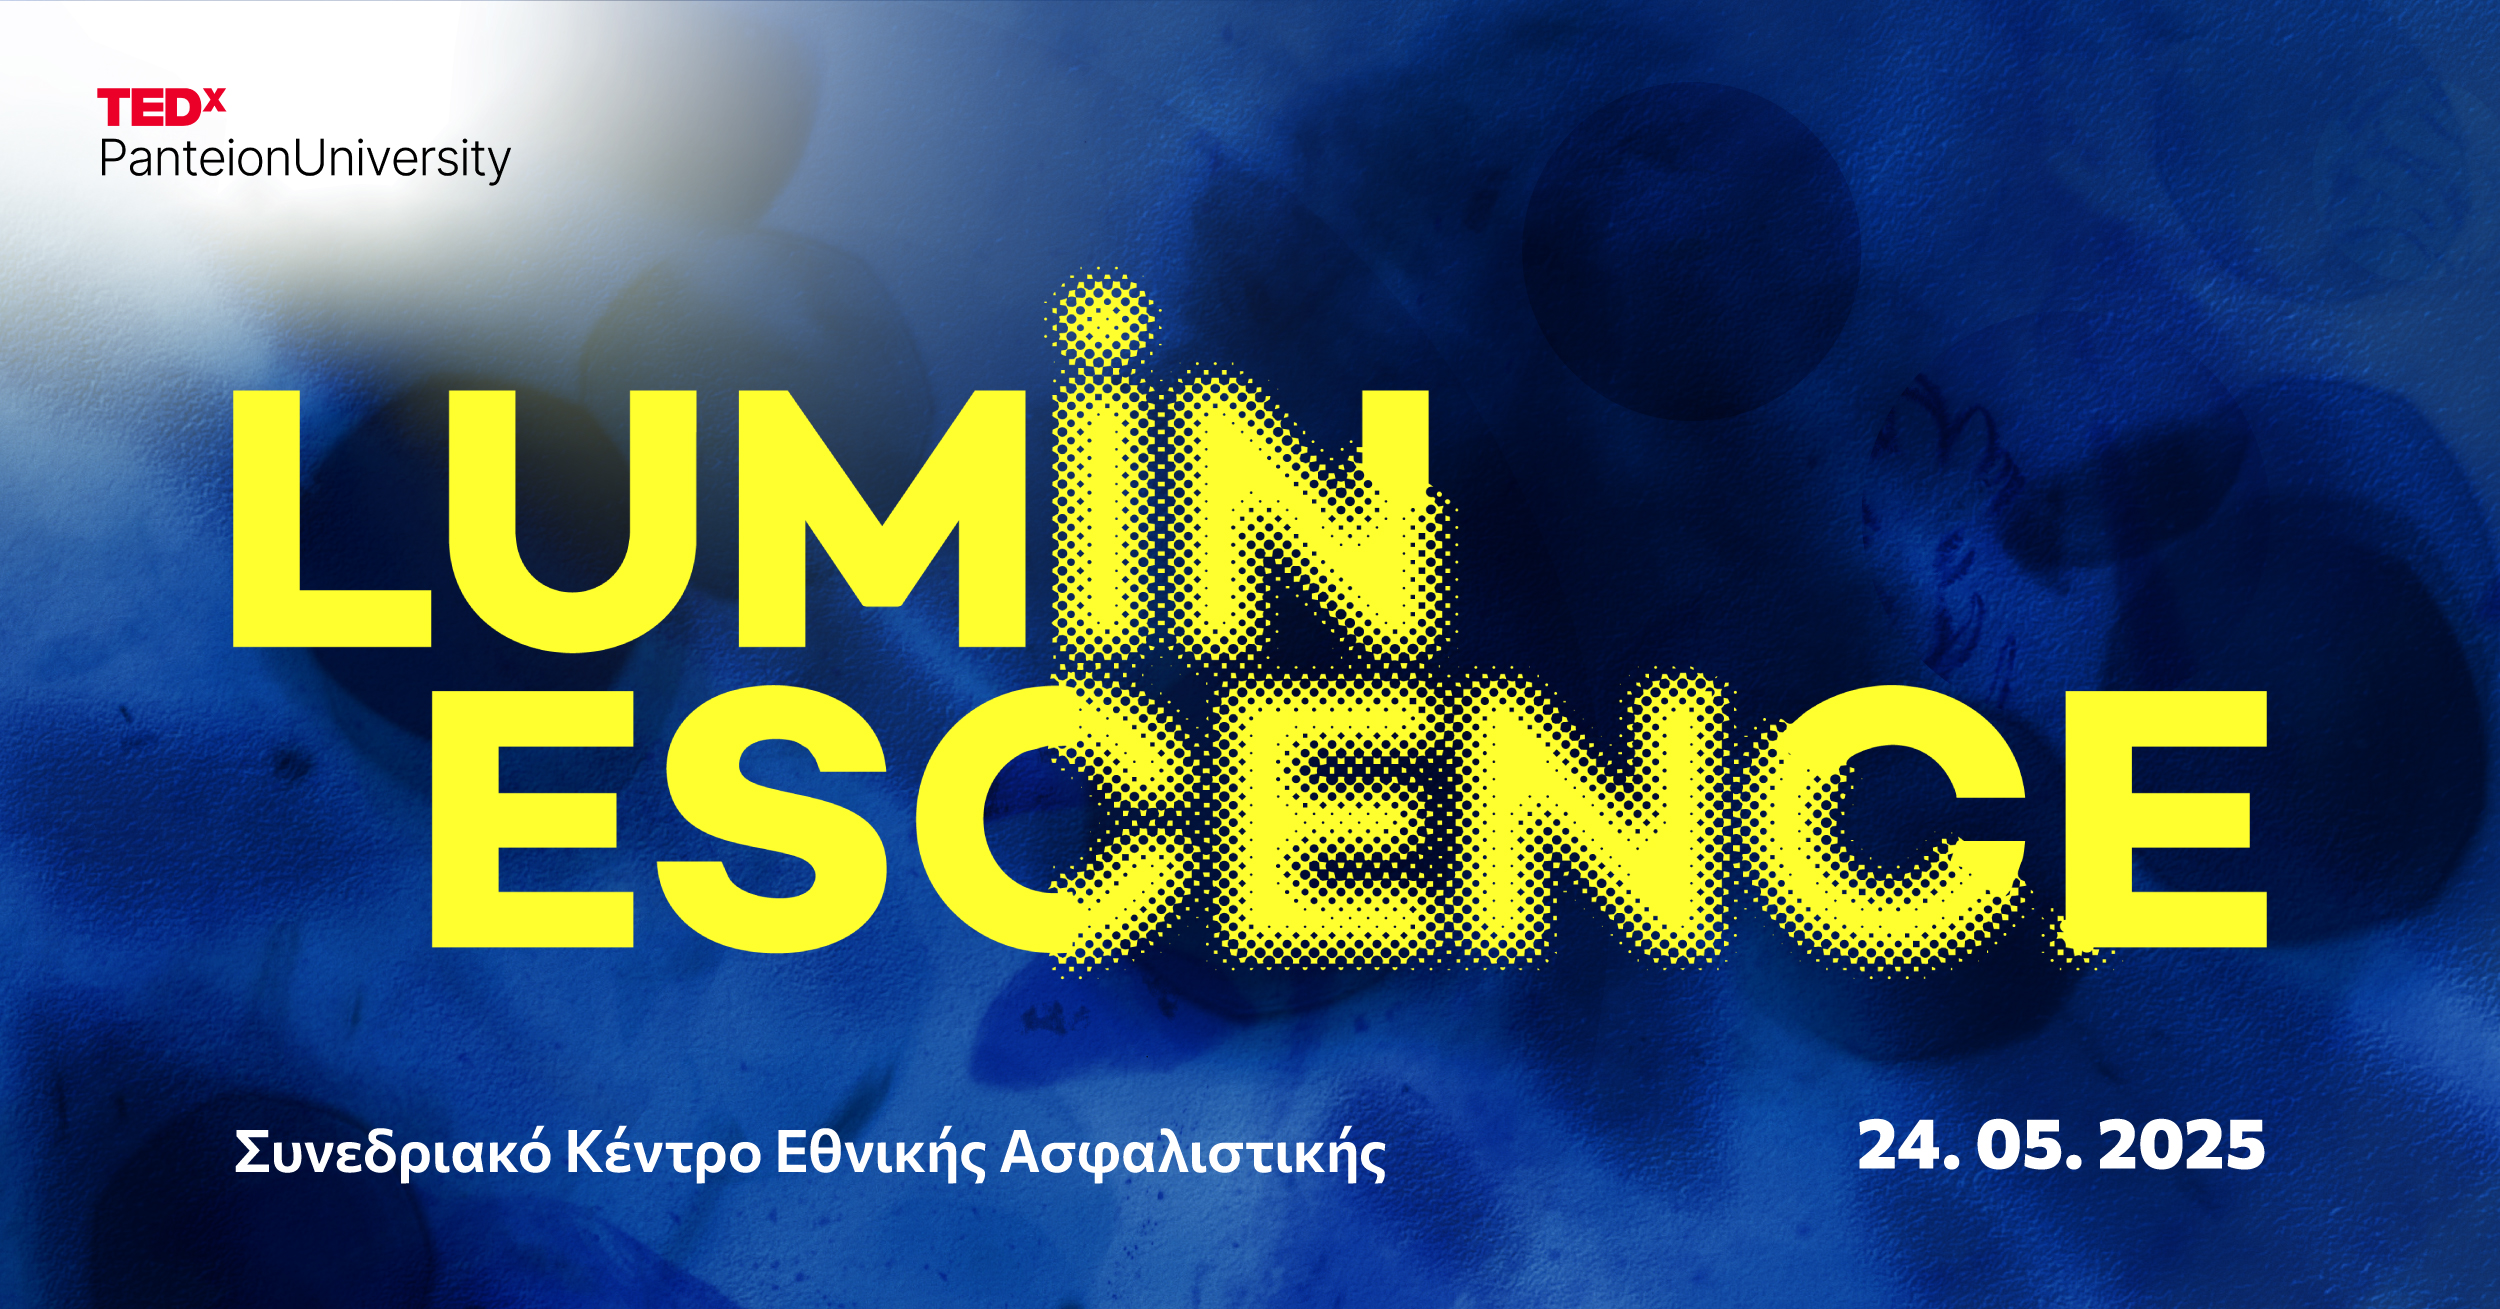
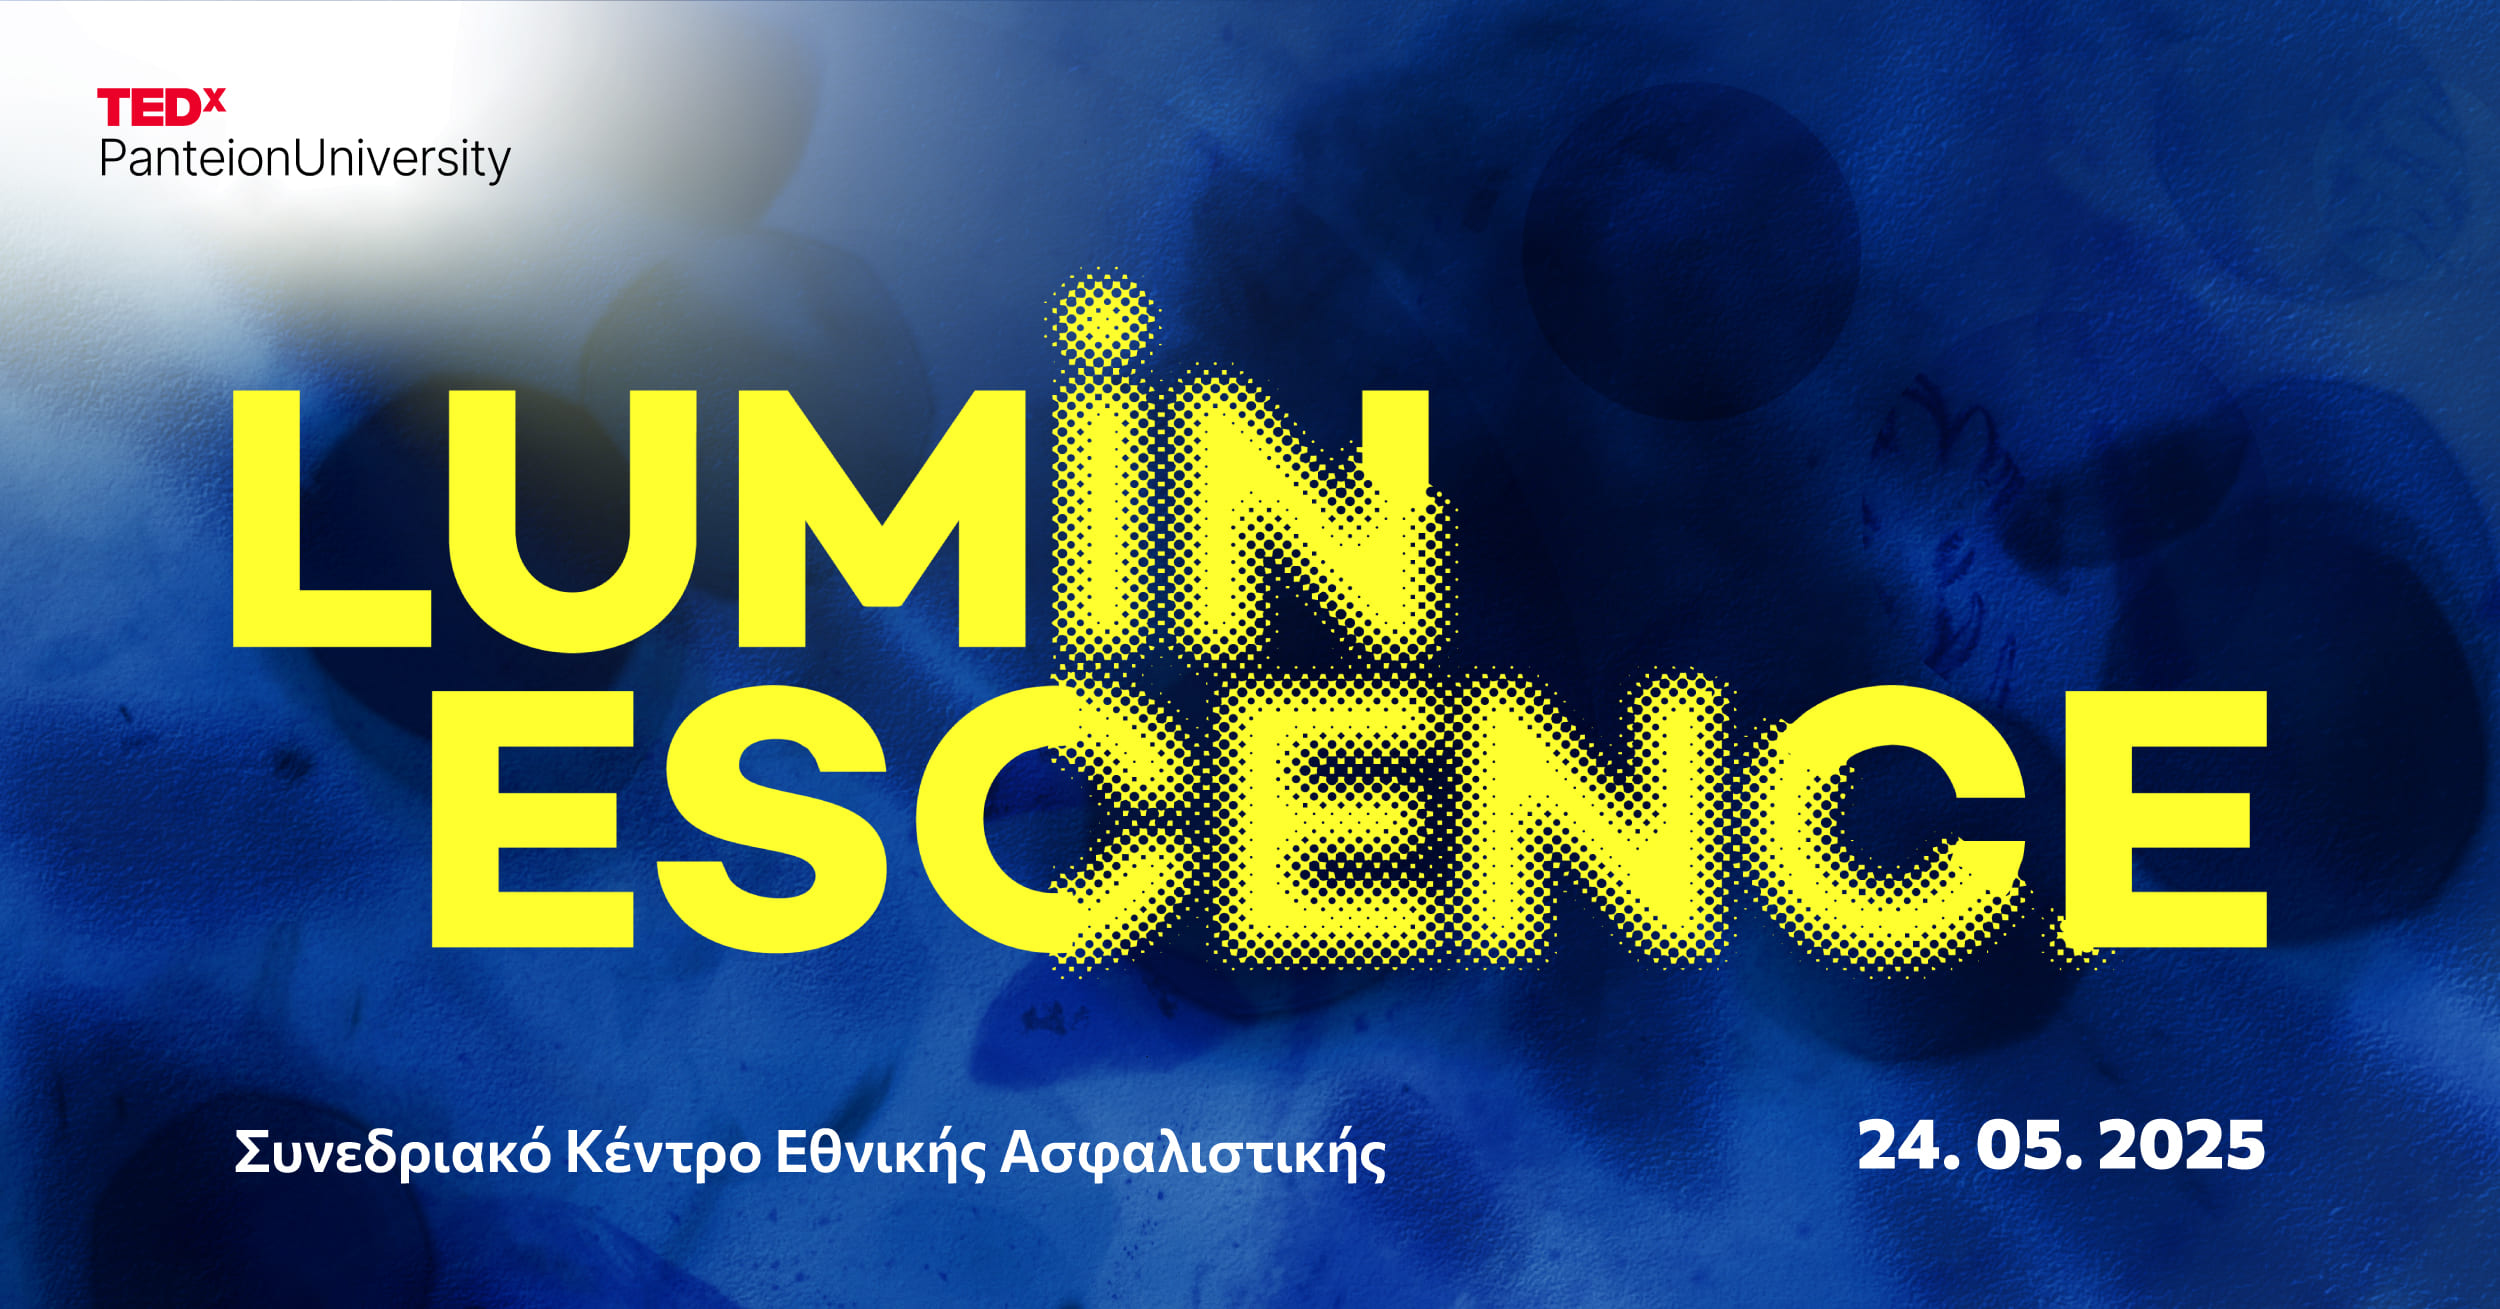
Minor Changes

diff --git a/data/historyEvents.ts b/data/historyEvents.ts
@@ -414,7 +414,13 @@ underlining how our consumption influences our viewpoints.`,
   {
     year: 2024,
     title: "Urban Maze",
-    description: "",
+    description: `Ένας λαβύρινθος από ανθρώπινες ιστορίες και αστικές εμπειρίες. Μέσα στο λαβύρινθο, κάθε μονοπάτι κρύβει ένα μυστικό και μια νέα ανακάλυψη.
+
+Στις πόλεις που ζούμε, κάθε σημείο, κάθε κτήριο, κάθε δρόμος κρύβει μια μοναδική ιστορία, που ίσως ποτέ δεν αναρωτηθήκαμε αν πρέπει να μάθουμε. Μέσα σε αυτές τις πόλεις αναζητάμε απεγνωσμένα μια σύνδεση, αλλά δεν είναι πάντα εφικτή.
+
+Κάθε πρόσωπο σε αυτό το λαβύρινθο φέρνει μια νέα διάσταση στο παζλ της ζωής στην πόλη, ενσωματώνοντας διαφορετικές πτυχές της καθημερινότητάς μας.
+
+Ελάτε να ταξιδέψουμε μαζί στο λαβύρινθο, και να ανακαλύψουμε την έξοδο του. Μία έξοδος, που θα μας βοηθήσει να κατανοήσουμε τόσο τους εαυτούς μας, όσο και τον κόσμο γύρω μας.`,
     introVideo: "",
     logo: "/images/history/2024.jpg",
     speakers: [
@@ -468,11 +474,54 @@ underlining how our consumption influences our viewpoints.`,
   {
     year: 2025,
     title: "Luminescence",
-    description: "",
+    description: `Η θεματική «Luminescence» ενέπνευσε ένα πλούσιο πρόγραμμα ομιλιών και δράσεων.
+Διακεκριμένοι ομιλητές από το χώρο των επιστημών, των τεχνών, της κοινωνίας και της
+επιχειρηματικότητας μοιράστηκαν ιστορίες που αναδεικνύουν τη δύναμη της πρόκλησης, της
+μεταμόρφωσης και της συλλογικότητας.`,
     introVideo: "",
     logo: "/images/history/2025.jpg",
+    sponsors: "/images/Sponsors2025.jpg",
     speakers: [
-
+      {
+        title: "From Photosynthesis to Bioluminescence",
+        name: "Spyros Gkelis",
+        url: "https://www.youtube.com/watch?v=5lOjJLE4GRA&list=PLdBayfDMYEO5PpafbTGOQc0a1PKHHw-3S&index=2"
+      },
+      {
+        title: "Rethinking AI and Well Being at Work",
+        name: "Angeliki Papasava",
+        url: "https://www.youtube.com/watch?v=b7w8JSRE5c8&list=PLdBayfDMYEO5PpafbTGOQc0a1PKHHw-3S&index=2"
+      },
+      {
+        title: "You Don't Need to be a Tech Builder to Run a Start Up",
+        name: "Dimitris Komninos",
+        url: "https://www.youtube.com/watch?v=GIjiCMy9Vio&list=PLdBayfDMYEO5PpafbTGOQc0a1PKHHw-3S&index=3"
+      },
+      {
+        title: "Why Truth Always Finds the Light",
+        name: "Thanasis Katerinopoulos",
+        url: "https://www.youtube.com/watch?v=qSIfcRCYvTA&list=PLdBayfDMYEO5PpafbTGOQc0a1PKHHw-3S&index=4"
+      },
+      {
+        title: "Can you Hear my Voice? Life with an Autistic Child",
+        name: "Giorgos Giotsas",
+        url: "https://www.youtube.com/watch?v=8peS39go__w&list=PLdBayfDMYEO5PpafbTGOQc0a1PKHHw-3S&index=5"
+      },
+      {
+        title: "I See a Firefly in You: The Hidden Light of Learning",
+        name: "Zabel Mouratian",
+        url: "https://www.youtube.com/watch?v=plht6eptDno&list=PLdBayfDMYEO5PpafbTGOQc0a1PKHHw-3S&index=6"
+      },
+      {
+        title: "Why Hard Work Beats Talent - Every Time",
+        name: "Panos (Beta) Vouros",
+        url: "https://www.youtube.com/watch?v=IUv5YNDdzwg&list=PLdBayfDMYEO5PpafbTGOQc0a1PKHHw-3S&index=7"
+      },
+      {
+        title: "The Earthquake That Can Rebuild Us",
+        name: "Marilia Antoniadou",
+        url: "https://www.youtube.com/watch?v=dcJHK53hd2A&list=PLdBayfDMYEO5PpafbTGOQc0a1PKHHw-3S&index=8"
+      },
     ]
   }
 ];

diff --git a/components/home/HeroSection.tsx b/components/home/HeroSection.tsx
@@ -14,7 +14,7 @@ export default function HeroSection() {
                         lg:min-h-screen    /* Large screens */
                       text-white flex flex-col items-center justify-center overflow-hidden">
       {/* 🔴 Background Image Layer */}
-      <div className="absolute inset-0 scale-[1.2] md:scale-[1.20] landscape:scale-[1.3]">
+      <div className="absolute inset-0 scale-[1.2] md:scale-[1.10] landscape:scale-[1.14]">
         <Image
           src="/images/X_Logo.png"
           alt="TEDx Panteion background"
@@ -32,10 +32,19 @@ export default function HeroSection() {
         animate={{ opacity: 1, y: 0 }}
         transition={{ duration: 1 }}
       >
-        <h1 className="text-4xl md:text-7xl font-bold leading-tight mb-6">
-          <span className="text-red-600 left">TEDx</span> PanteionUniversity
+        <h1 className="text-4xl md:text-7xl font-bold leading-tight mb-6 px-36">
+          <div className="-ml-2 flex flex-col space-y-1">
+                    <Image
+                      src="/images/logo-white.png"
+                      alt="TEDx Logo"
+                      width={700}
+                      height={100}
+                    />
+          
+                 
+                  </div>
         </h1>
-        <h2 className="text-lg md:text-3xl text-gray-300 mb-4 font-bold leading-tight">
+        <h2 className="text-lg md:text-3xl text-gray-300 mb-4 leading-tight">
           Γιορτάζουμε 10 χρόνια TEDxPanteionUniversity.
         </h2>
         <h2 className="text-lg md:text-xl text-gray-300 mb-8">

diff --git a/app/about/history/page.tsx b/app/about/history/page.tsx
@@ -34,7 +34,7 @@ function HistoryContent() {
       <div className="max-w-4xl mx-auto">
 
         <h1 className="text-4xl md:text-6xl font-bold text-center mb-16">
-          Our <span className="text-red-600">10-Year</span> Journey
+          Our History
         </h1>
 
         <div className="space-y-6">
@@ -121,6 +121,20 @@ function HistoryContent() {
                           </li>
                         ))}
                       </ul>
+                    </div>
+
+                    {/* SPONSORS (only if exists) */}
+                    <div className="mt-4">
+                      {event.sponsors && event.sponsors.trim() !== "" && (
+                        <h3 className="text-xl font-semibold mb-2 text-red-500">Sponsors</h3>
+                      )}
+                      {event.sponsors && event.sponsors.trim() !== "" && (
+                        <img
+                          src={event.sponsors}
+                          alt={`${event.title} logo`}
+                          className="w-full h-auto object-contain rounded-lg"
+                        />
+                      )}
                     </div>
                   </motion.div>
                 )}

diff --git a/components/home/Timeline.tsx b/components/home/Timeline.tsx
@@ -12,7 +12,7 @@ type EventType = {
 };
 
 const Events: EventType[] = [
-  { id: "0", year: "2026", title: "TBA ", image: "/images/history/2025.jpg"},
+  { id: "0", year: "2026", title: "TBA ", image: "/images/history/2026.jpg"},
   { id: "1", year: "2025", title: "Luminescense", image: "/images/history/2025.jpg"},
   { id: "2", year: "2024", title: "Urban Maze", image: "/images/history/2024.jpg"},
   { id: "3", year: "2023", title: "Feed", image: "/images/history/2023.jpg"},
@@ -26,7 +26,7 @@ const Events: EventType[] = [
 
 export default function Timeline({ events = Events }: { events?: EventType[] }) {
   return (
-    <section className="max-w-7xl mx-auto px-6 py-20">
+    <section className="max-w-7xl mx-auto px-6 py-10">
       <h2 className="text-5xl lg:text-7xl font-bold mb-16 text-center">
         Our History
       </h2>
@@ -63,7 +63,7 @@ export default function Timeline({ events = Events }: { events?: EventType[] }) 
               </div>
 
               {/* Overlay */}
-              <div className="absolute inset-0 bg-linear-to-b from-black/60 to-black/80" />
+              <div className="absolute inset-0 bg-linear-to-b from-black/20 to-black/80" />
 
               {/* Text */}
               <div className="relative p-6">

diff --git a/app/page.tsx b/app/page.tsx
@@ -6,11 +6,9 @@ import Timeline from "@/components/home/Timeline";
 
 export default function Home() {
   return (
-    <main className="min-h-screen  text-white py-20">
+    <main className="min-h-screen  text-white">
       <section style={{}}>
-        <Marquee />
         <HeroSection />
-        <Marquee reverse />
       </section>
         <Timeline />
       

diff --git a/components/layout/Navigation.tsx b/components/layout/Navigation.tsx
@@ -48,7 +48,7 @@ export default function Navigation() {
   ];
 
   const aboutLinks = [
-    { href: "/about", label: "Tedx" },
+    { href: "/about", label: "TEDx" },
     { href: "/about/team", label: "Our Team" },
     { href: "/about/history", label: "Our History" },
   ];